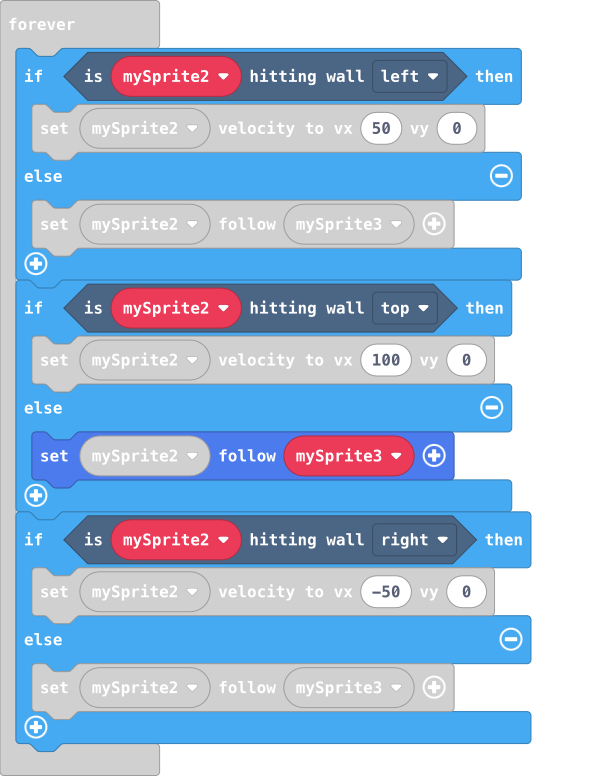
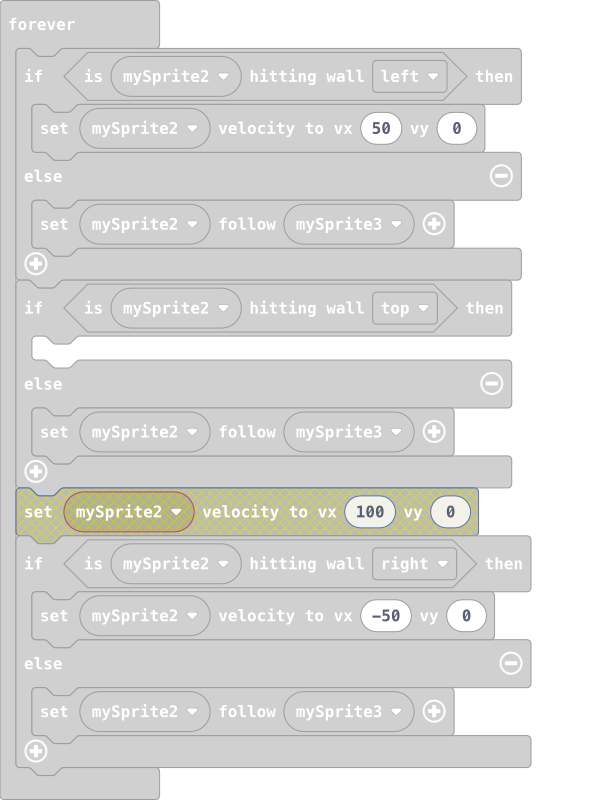
Update main.blocks, main.ts, images.g.jres, images.g.ts

diff --git a/images.g.ts b/images.g.ts
@@ -57,24 +57,6 @@ f f f f f f f f f f f f f f f f
 . . . . . . . . . . . . . . . . 
 . . . . . . . . . . . . . . . . 
 `;
-            case "image4":return img`
-. . 3 3 3 3 3 3 3 3 3 3 3 3 . . 
-3 3 3 3 3 3 3 3 3 3 3 3 3 3 3 3 
-3 3 3 3 3 3 3 3 3 3 3 3 3 3 3 3 
-3 3 3 3 3 3 3 3 3 3 3 3 3 3 3 3 
-. . 3 3 3 3 3 3 3 3 3 3 3 3 . . 
-. . 3 3 3 3 3 3 3 3 3 3 3 3 . . 
-. . 3 3 3 3 3 3 3 3 3 3 3 3 . . 
-. . 3 3 3 3 3 3 3 3 3 3 3 3 . . 
-. . 3 3 3 3 3 3 3 3 3 3 3 3 3 . 
-. . 3 3 3 3 3 3 3 3 3 3 3 3 . . 
-. . 3 3 3 3 3 3 3 3 3 3 3 3 . . 
-3 3 3 3 3 3 3 3 3 3 3 3 3 3 3 3 
-3 3 3 3 3 3 3 3 3 3 3 3 3 3 3 3 
-3 3 3 3 3 3 3 3 3 3 3 3 3 3 3 3 
-. . 3 3 3 3 3 3 3 3 3 3 3 3 . . 
-. . . 3 3 3 3 3 3 3 3 3 3 . . . 
-`;
         }
         return null;
     })

diff --git a/main.ts b/main.ts
@@ -74,7 +74,7 @@ forever(function () {
         mySprite2.follow(mySprite3)
     }
     if (mySprite2.isHittingTile(CollisionDirection.Top)) {
-        mySprite2.setVelocity(100, 0)
+    	
     } else {
         mySprite2.follow(mySprite3)
     }
